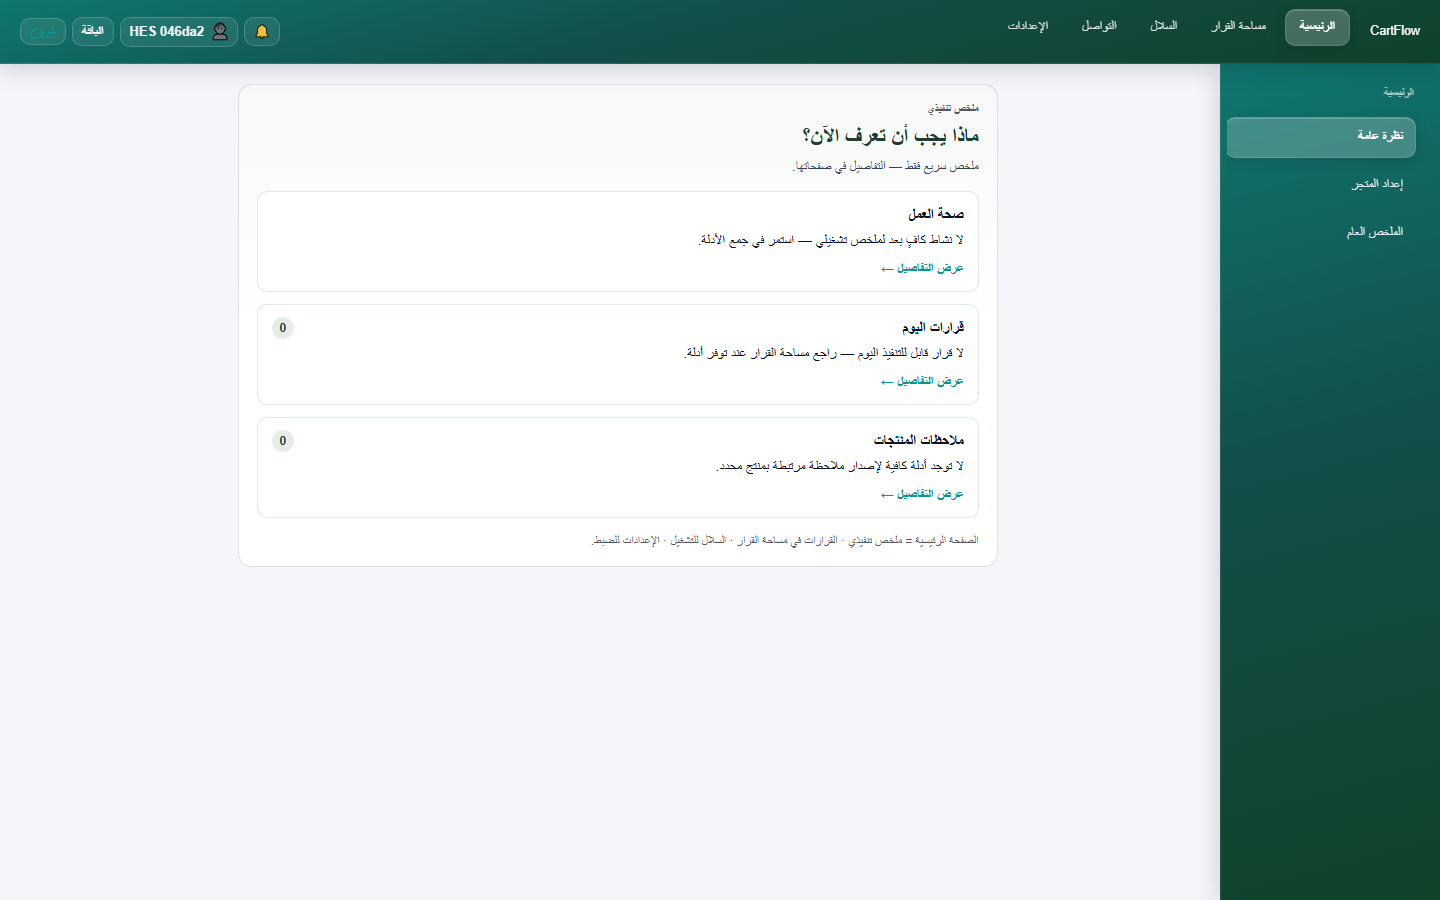
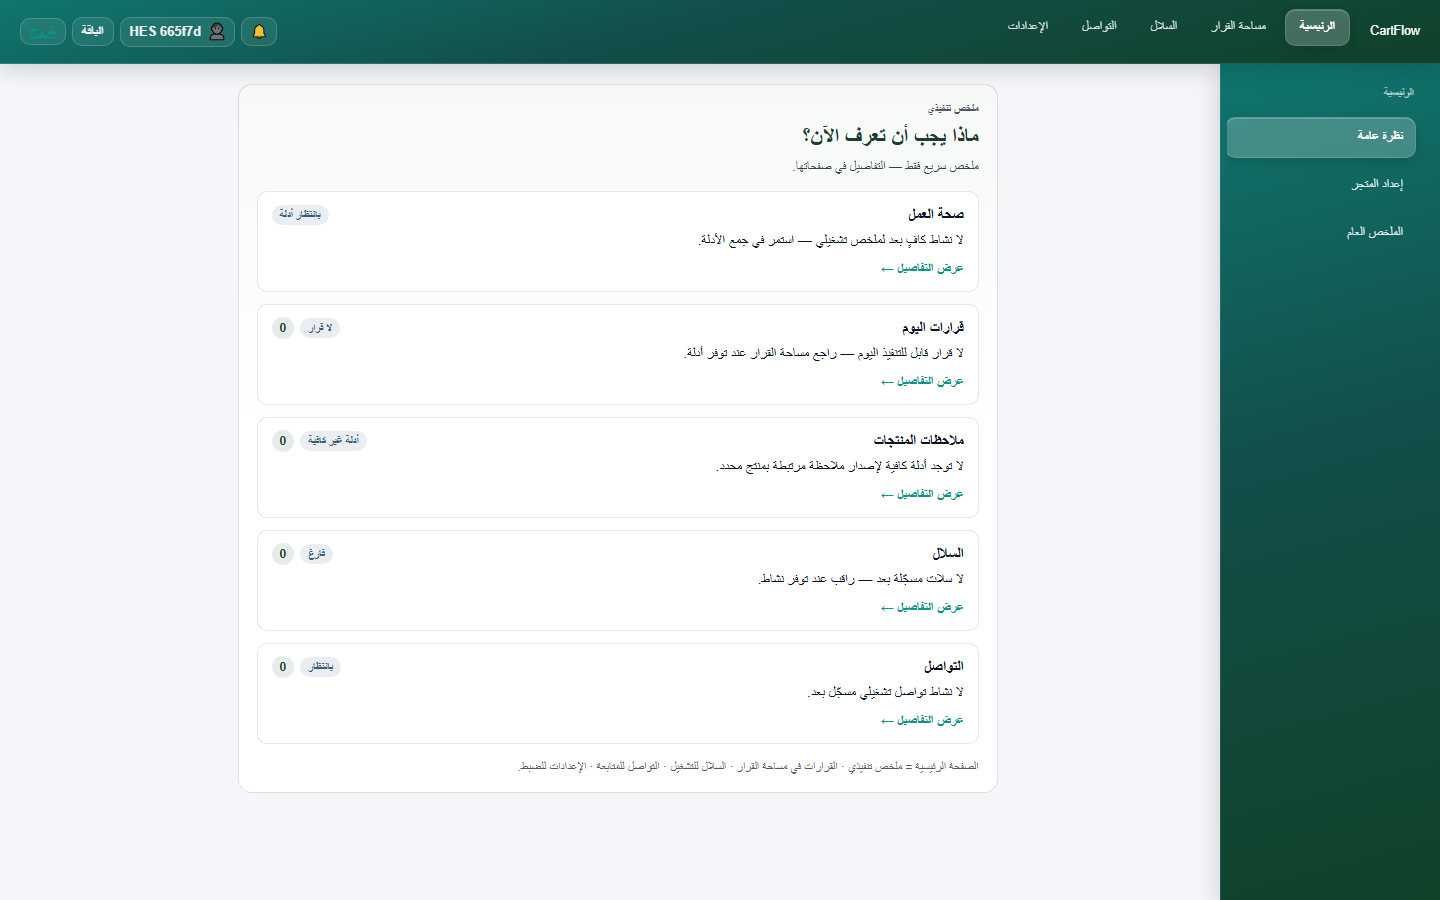
docs(home): Home Stabilization Sprint V1 production Desktop/Mobile evidence
Record organic production verification after PR #74 deploy; STOP for CEO review before Product Intelligence V1.

diff --git a/docs/SYSTEM_SUMMARY.md b/docs/SYSTEM_SUMMARY.md
@@ -564,6 +564,7 @@ Recovery: `recovery_delay`, `recovery_delay_unit`, `recovery_attempts`, `recover
 | 2026-07-24 | **Restore Approved ORV UI on Production:** Home was painting empty ORV («لا ملاحظات…») because merchant stores lacked observation mass and demo fallback was owner-gated. Fix: merge approved ORV validation mass when durable incomplete; fall back to demo findings when primary empty; probe `GET /dev/observation-reality-validation`. Keeps PR #66 polished cards (statement + action + confidence; no technical fields). **Do not begin Product Intelligence V1.** |
 | 2026-07-24 | **Home Executive Summary Refactoring V1:** Home = executive summary only (`home_executive_summary_v1`: health / decisions / observations teasers with count + View Details). Observation findings entity-bound (real product name required) or honest empty «لا توجد أدلة كافية لإصدار ملاحظة مرتبطة بمنتج محدد.»; approved-mass + demo fallback off by default. Slim ORV Home transport. Flag `CARTFLOW_HOME_EXECUTIVE_SUMMARY_V1` default on. Doc: `docs/product/HOME_EXECUTIVE_SUMMARY_V1.md`. **Do not begin Product Intelligence V1 until approved.** |
 | 2026-07-24 | **Home Stabilization Sprint V1:** Freeze Home features before Product Intelligence. Five executive teasers (health / decisions / observations / carts / communication) with summary + status + count + View Details. Single paint path when `home_surface_mode=executive_summary_v1` (blocks MEIF/ECC/Pulse/ORV sibling). No empty-slug→demo ORV; no MEIF lab→demo BFL swap under HES; ban «هذا المنتج» as product name; profile spans `home_stage_*` on summary finalize. Doc: `docs/product/HOME_STABILIZATION_SPRINT_V1.md`. **CEO review required before Product Intelligence V1.** |
+| 2026-07-24 | **Home Stabilization Sprint V1 — Production Verification:** Merged PR #74 (`839dd13`); Railway Success. Organic Desktop/Mobile shots + probe confirm five sections, `executive_summary_v1` surface mode, honest observation empty copy, no «هذا المنتج»/demo. Evidence: `docs/product/home_executive_summary_v1/verification.json`. **STOP — CEO visual review required before Product Intelligence V1.** |
 | 2026-07-24 | **Evidence Truth WP-ET-10.6 Evidence Knowledge Materialization Bridge V1:** Durable demo-only shadow artifacts + materialization runs (Alembic `j9k0l1m2n3o4`); governed input contract; orchestrator Observation→Evidence→Bundle→Knowledge (bounded/idempotent); CLI dry_run/execute; flags `CARTFLOW_EVIDENCE_KNOWLEDGE_MATERIALIZATION_V1` / `_EXECUTE` default OFF; Preview merges durable Knowledge (read-only; preview flag never materializes). Tests: 122 passed (WP-ET-00…10.6). Report: `docs/implementation/WP_ET_10_6_EVIDENCE_KNOWLEDGE_MATERIALIZATION_BRIDGE_V1.md`. **STOP — await merge + review before production EXECUTE / WP-ET-11. No Home/Findings/Guidance.** |
 | 2026-07-24 | **Executive Knowledge Materialization Investigation V1 (docs only):** Traced Raw→Observation→Evidence→Bundle→Knowledge for `demo` + Zid-linked stores. Live Preview: `flag_enabled=true`, `record_count=0`, `stores=[]`. Root cause: Preview flag ≠ materialization; Observation/Evidence dual-write default OFF; Bundle/Knowledge composers have zero production callers; shadow stores process-local; historical activity never entered ET. Verdict **EMPTY_BY_NON_MATERIALIZATION**. Doc: `docs/investigation/EXECUTIVE_KNOWLEDGE_MATERIALIZATION_INVESTIGATION_V1.md`. **STOP — await Architectural Review. No fix/backfill/storage change/WP-ET-11.** |
 | 2026-07-24 | **Merge main into Evidence Truth PR #60:** Resolved changelog + product/recovery hook conflicts; kept ET dual-write hooks alongside Product Signal Collection hooks. Commit stack includes WP-ET-00…10.5 @ 22285f5. **No WP-ET-11.** |

diff --git a/docs/product/HOME_STABILIZATION_SPRINT_V1.md b/docs/product/HOME_STABILIZATION_SPRINT_V1.md
@@ -1,7 +1,9 @@
 # Home Stabilization Sprint V1
 
-**Status:** Implemented — awaiting CEO / production review before Product Intelligence V1  
+**Status:** Production verified — awaiting CEO visual approval before Product Intelligence V1  
 **Date (UTC):** 2026-07-24  
+**Deploy:** PR #74 → `839dd13` (Railway Success)  
+**Evidence:** `docs/product/home_executive_summary_v1/` (Desktop/Mobile + `verification.json`)  
 **Flag:** `CARTFLOW_HOME_EXECUTIVE_SUMMARY_V1` (default ON)
 
 ## Mission
